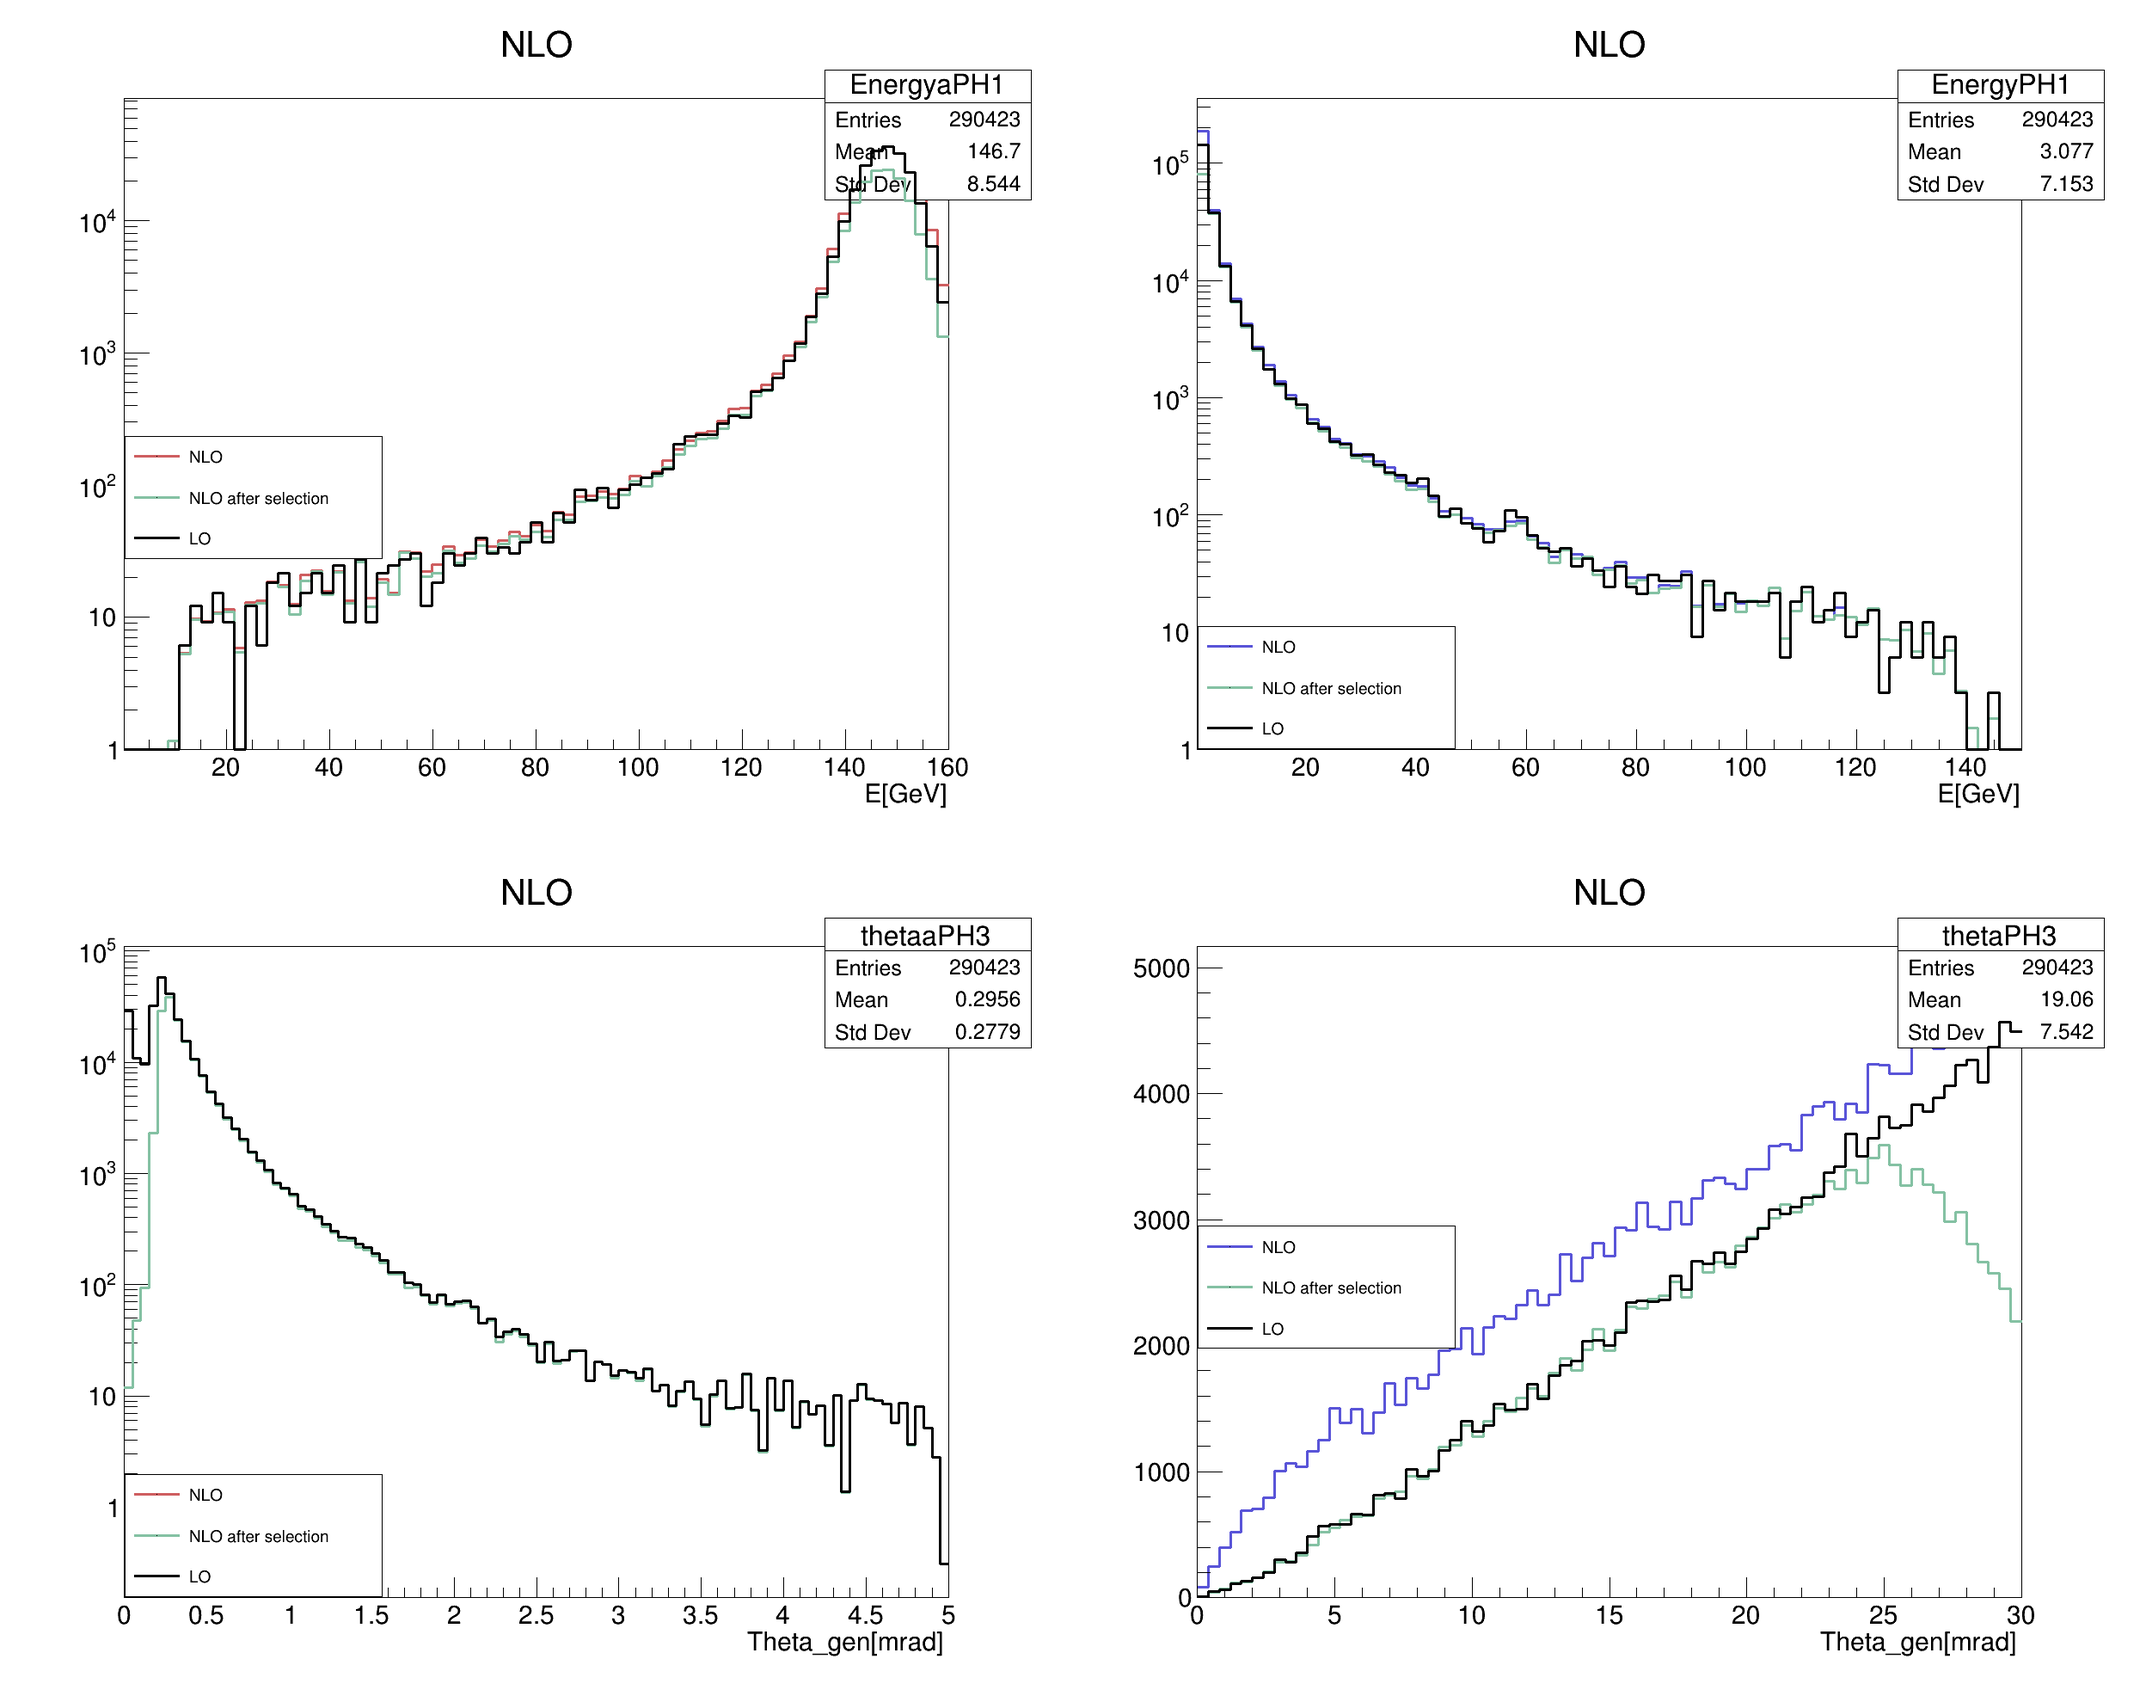
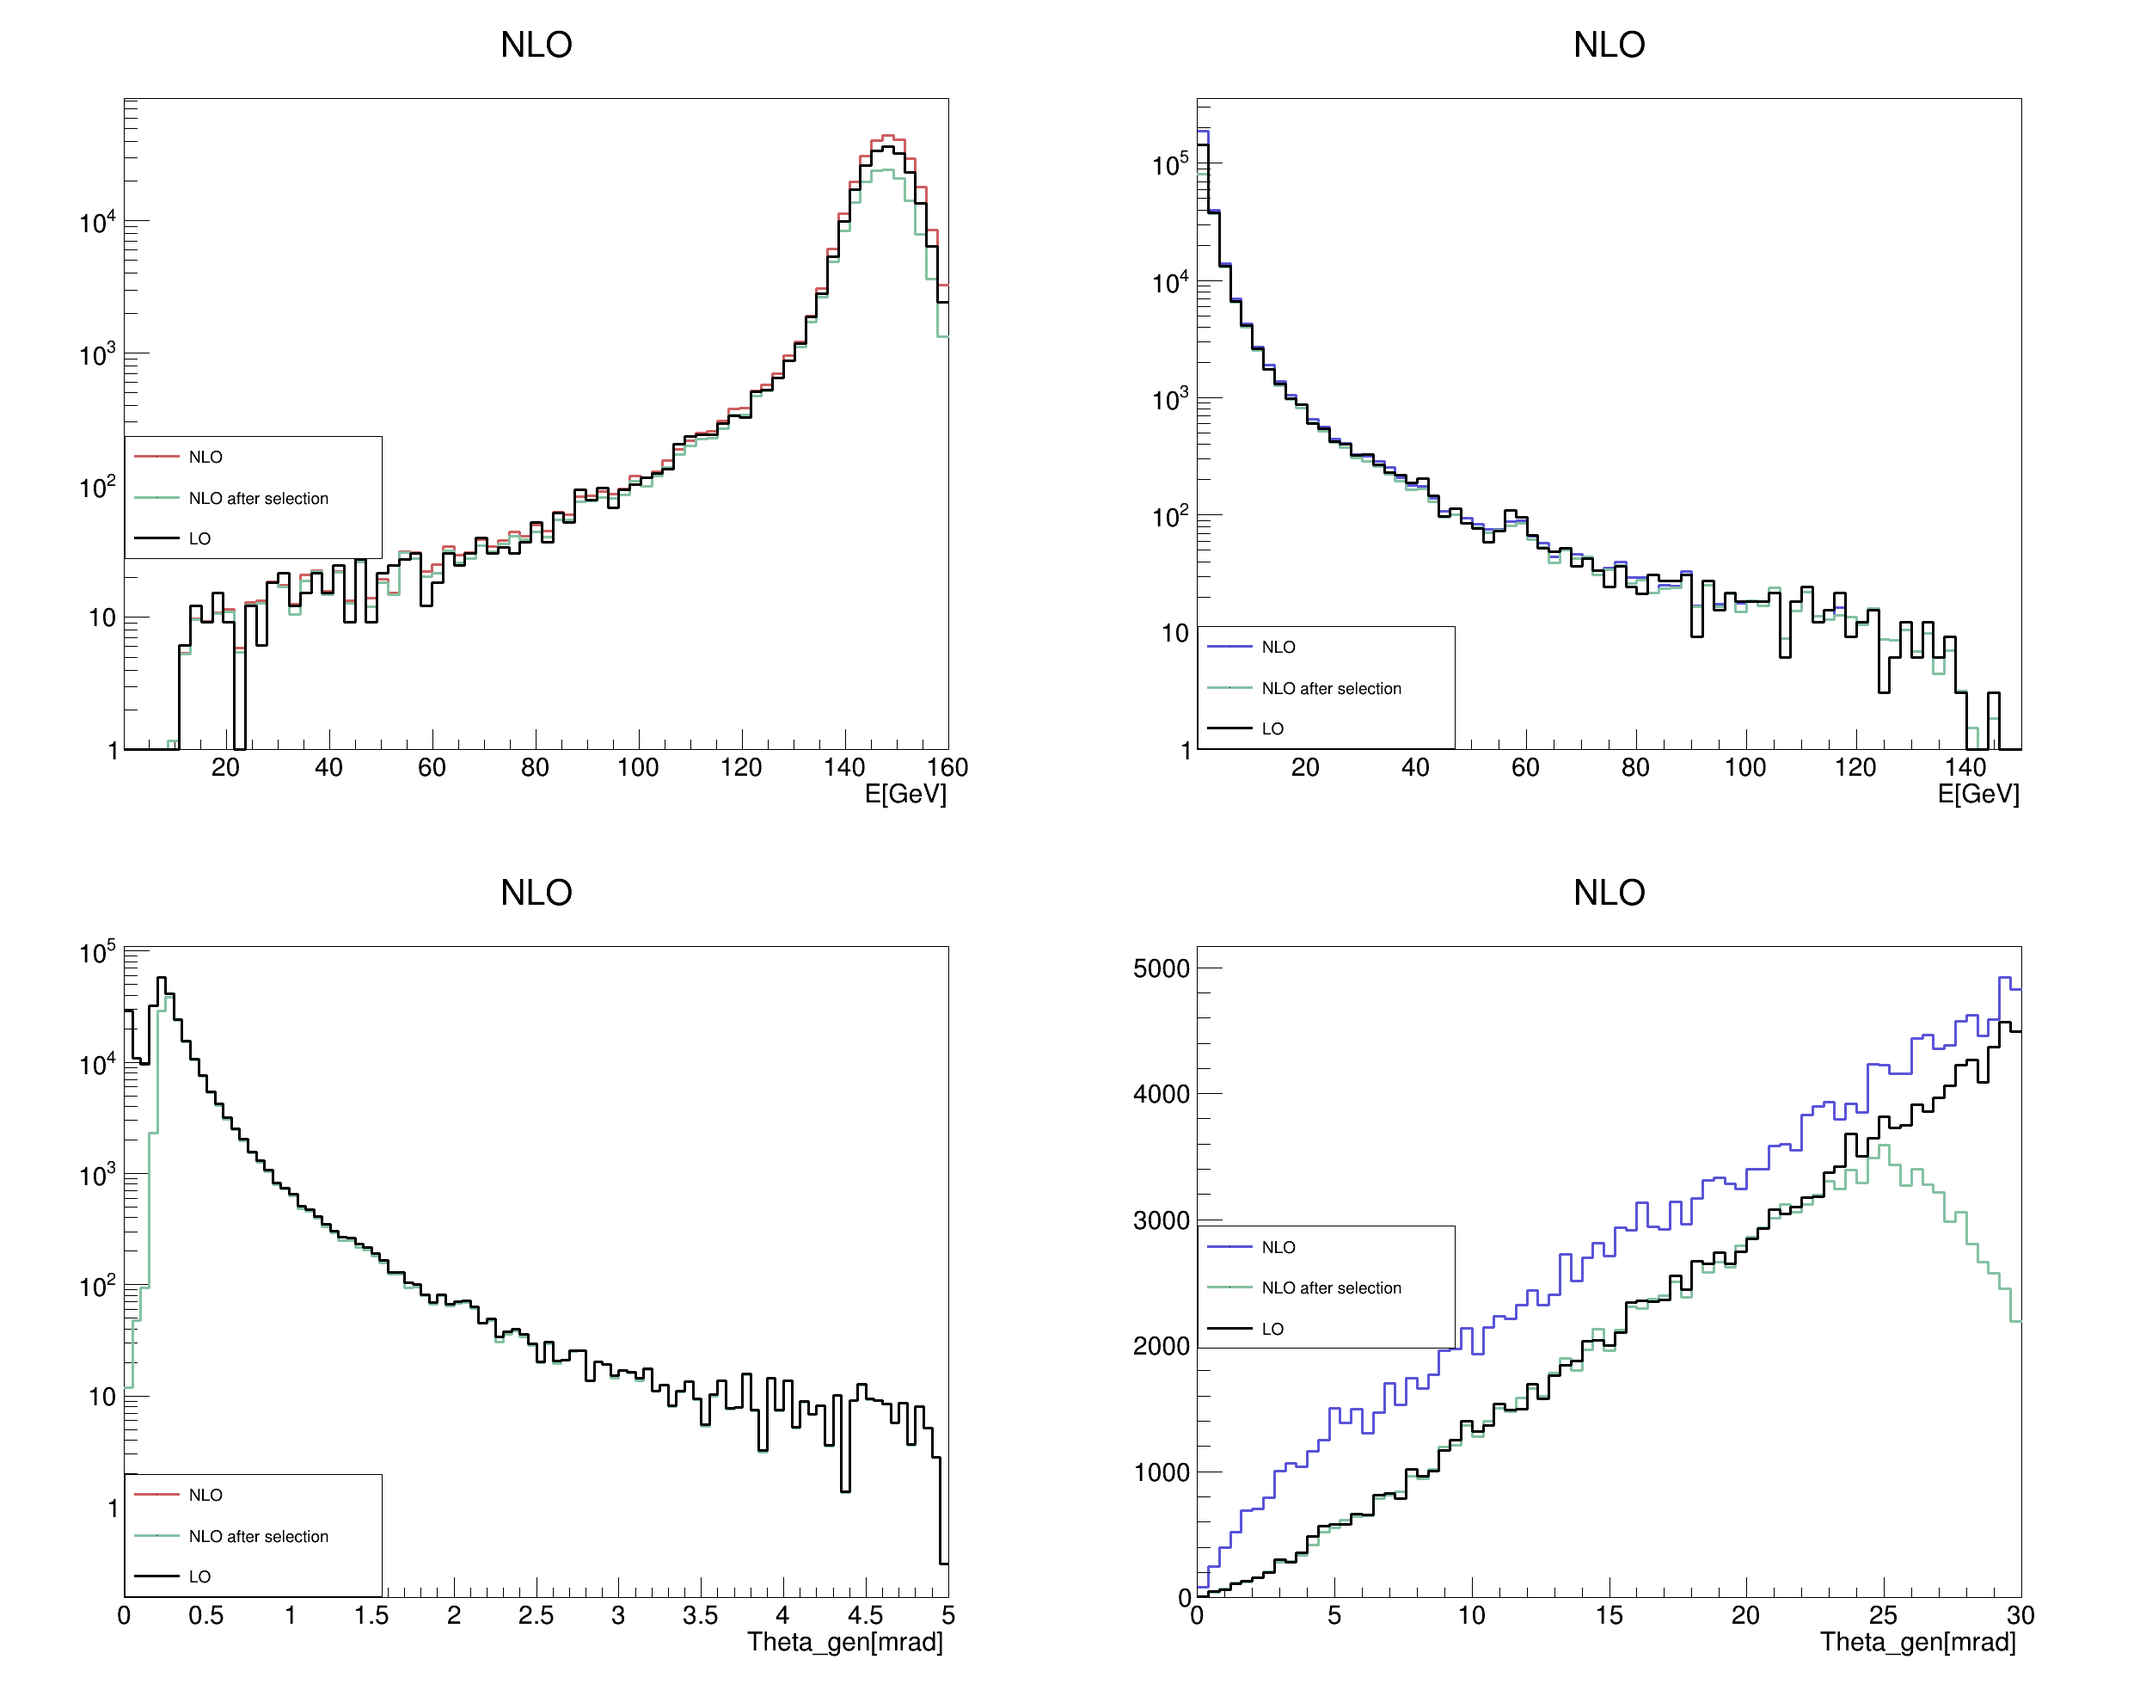
ong

diff --git a/studio3/photon_cut.C b/studio3/photon_cut.C
@@ -1,8 +1,9 @@
 void photon_cut()
 {
 //=========Macro generated from canvas: d/d
-//=========  (Fri Mar  5 18:19:48 2021) by ROOT version 6.20/02
+//=========  (Fri Mar  5 18:26:25 2021) by ROOT version 6.20/02
    TCanvas *d = new TCanvas("d", "d",0,0,2500,2000);
+   gStyle->SetOptStat(0);
    d->Range(0,0,1,1);
    d->SetFillColor(0);
    d->SetBorderMode(0);
@@ -176,23 +177,6 @@ void photon_cut()
    EnergyPH__1->SetBinError(76,2.954456e-09);
    EnergyPH__1->SetMinimum(1);
    EnergyPH__1->SetEntries(114340);
-   
-   TPaveStats *ptstats = new TPaveStats(0.78,0.775,0.98,0.935,"brNDC");
-   ptstats->SetName("stats");
-   ptstats->SetBorderSize(1);
-   ptstats->SetFillColor(0);
-   ptstats->SetTextAlign(12);
-   ptstats->SetTextFont(42);
-   TText *ptstats_LaTex = ptstats->AddText("EnergyPH");
-   ptstats_LaTex->SetTextSize(0.0368);
-   ptstats_LaTex = ptstats->AddText("Entries = 114340 ");
-   ptstats_LaTex = ptstats->AddText("Mean  =  1.629");
-   ptstats_LaTex = ptstats->AddText("Std Dev   =  5.579");
-   ptstats->SetOptStat(1111);
-   ptstats->SetOptFit(0);
-   ptstats->Draw();
-   EnergyPH__1->GetListOfFunctions()->Add(ptstats);
-   ptstats->SetParent(EnergyPH__1);
    EnergyPH__1->SetLineColor(9);
    EnergyPH__1->SetLineWidth(3);
    EnergyPH__1->GetXaxis()->SetTitle("E[GeV]");
@@ -796,23 +780,6 @@ void photon_cut()
    thetaPH__5->SetBinError(79,0.1069385);
    thetaPH__5->SetEntries(114340);
    thetaPH__5->SetDirectory(0);
-   
-   ptstats = new TPaveStats(0.78,0.775,0.98,0.935,"brNDC");
-   ptstats->SetName("stats");
-   ptstats->SetBorderSize(1);
-   ptstats->SetFillColor(0);
-   ptstats->SetTextAlign(12);
-   ptstats->SetTextFont(42);
-   ptstats_LaTex = ptstats->AddText("thetaPH");
-   ptstats_LaTex->SetTextSize(0.0368);
-   ptstats_LaTex = ptstats->AddText("Entries = 114340 ");
-   ptstats_LaTex = ptstats->AddText("Mean  =  24.85");
-   ptstats_LaTex = ptstats->AddText("Std Dev   =  15.97");
-   ptstats->SetOptStat(1111);
-   ptstats->SetOptFit(0);
-   ptstats->Draw();
-   thetaPH__5->GetListOfFunctions()->Add(ptstats);
-   ptstats->SetParent(thetaPH__5);
    thetaPH__5->SetLineColor(9);
    thetaPH__5->SetLineWidth(3);
    thetaPH__5->GetXaxis()->SetTitle("Theta_gen[mrad]");
@@ -1507,23 +1474,6 @@ void photon_cut()
    thetaPH__9->SetBinError(51,2.831259);
    thetaPH__9->SetEntries(114340);
    thetaPH__9->SetDirectory(0);
-   
-   ptstats = new TPaveStats(0.78,0.775,0.98,0.935,"brNDC");
-   ptstats->SetName("stats");
-   ptstats->SetBorderSize(1);
-   ptstats->SetFillColor(0);
-   ptstats->SetTextAlign(12);
-   ptstats->SetTextFont(42);
-   ptstats_LaTex = ptstats->AddText("thetaPH");
-   ptstats_LaTex->SetTextSize(0.0368);
-   ptstats_LaTex = ptstats->AddText("Entries = 114340 ");
-   ptstats_LaTex = ptstats->AddText("Mean  = -2.645");
-   ptstats_LaTex = ptstats->AddText("Std Dev   =  10.25");
-   ptstats->SetOptStat(1111);
-   ptstats->SetOptFit(0);
-   ptstats->Draw();
-   thetaPH__9->GetListOfFunctions()->Add(ptstats);
-   ptstats->SetParent(thetaPH__9);
    thetaPH__9->SetLineColor(9);
    thetaPH__9->SetLineWidth(3);
    thetaPH__9->GetXaxis()->SetTitle("Delta_ThetaGen[mrad]");
@@ -2090,23 +2040,6 @@ void photon_cut()
    thetaPH__13->SetBinError(71,0.210271);
    thetaPH__13->SetEntries(114340);
    thetaPH__13->SetDirectory(0);
-   
-   ptstats = new TPaveStats(0.78,0.775,0.98,0.935,"brNDC");
-   ptstats->SetName("stats");
-   ptstats->SetBorderSize(1);
-   ptstats->SetFillColor(0);
-   ptstats->SetTextAlign(12);
-   ptstats->SetTextFont(42);
-   ptstats_LaTex = ptstats->AddText("thetaPH");
-   ptstats_LaTex->SetTextSize(0.0368);
-   ptstats_LaTex = ptstats->AddText("Entries = 114340 ");
-   ptstats_LaTex = ptstats->AddText("Mean  =  2.375");
-   ptstats_LaTex = ptstats->AddText("Std Dev   =  2.395");
-   ptstats->SetOptStat(1111);
-   ptstats->SetOptFit(0);
-   ptstats->Draw();
-   thetaPH__13->GetListOfFunctions()->Add(ptstats);
-   ptstats->SetParent(thetaPH__13);
    thetaPH__13->SetLineColor(9);
    thetaPH__13->SetLineWidth(3);
    thetaPH__13->GetXaxis()->SetTitle("Delta_r[cm]");
